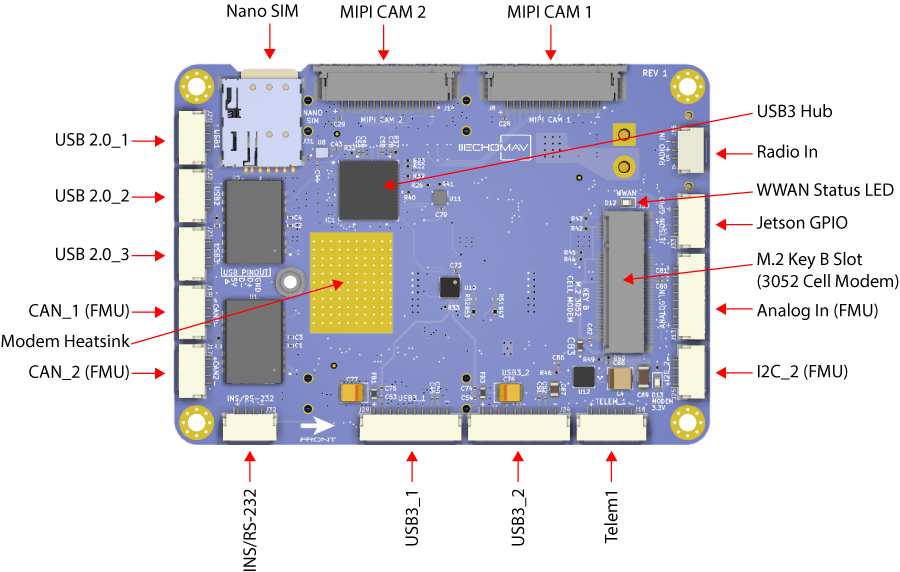
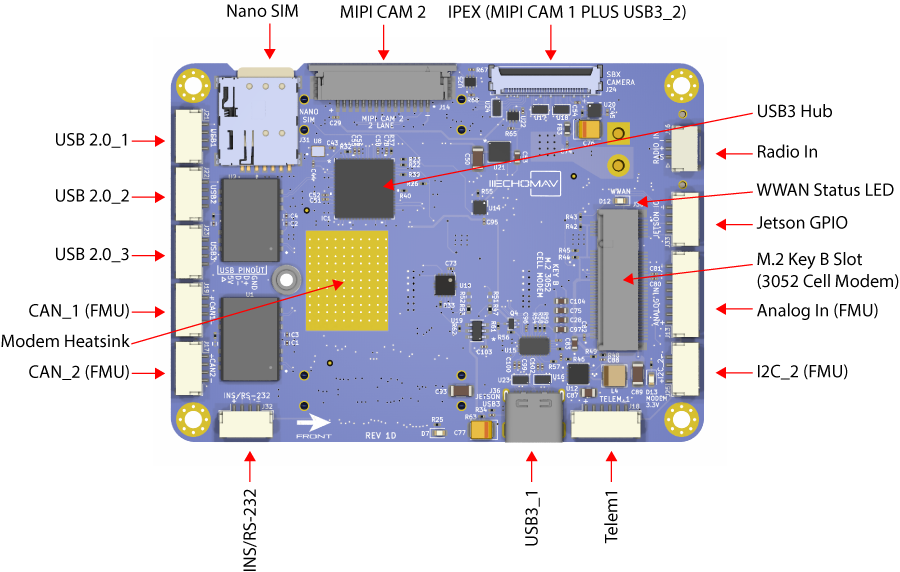
carrier board Rev 1D updates

Changed region(s): [[0.1867, 0.0892, 0.8089, 0.951], [0.4978, 0.0, 0.7778, 0.0297], [0.4356, 0.8916, 0.4667, 0.951]]

diff --git a/docs/echopilot_carrier_pinout.md b/docs/echopilot_carrier_pinout.md
@@ -376,9 +376,6 @@ Pin Number   | Direction     | Voltage       | Pin Description
 
 ![Bottom Side Components](assets/bottom-side-labels-carrier-board.png)
 
-!!! note
-    The MIPI CAM1 connector shown in the image abovee does NOT match the Rev1B board, which features a smaller 22 pin 0.5mm FFC connector. The documentation and pinout in this document is correct.
-
 #### Nano SIM Card (J31)
 A Nano SIM card holder. Used only if a M.2 3052 Key B Cellular modem is attached to J30.
 
@@ -407,39 +404,45 @@ Pin Number   | Direction     | Voltage       | Pin Description
 15        | Pwr OUT           | +3.3V          | +3.3V
 
 
-#### MIPI Cam 1 (J8)
-This connector provides a 4 Lane CSI/MIPI Camera connection, via a 22 pin 0.5mm spacing FFC connector. 
+#### IPEX Connector 1 (J24)
+This connector provides a 4 Lane CSI/MIPI Camera connection, as well as USB3 and I2C. Specifically designed to be used with EchoMAV cameras, but can be adapter for other use cases where a fully shielded/flexible microcoax assembly is required.
 
-!!! note
-    On Rev1B boards, this pinout is reversed from the FFC cables/cameras commonly used with RPi and Nvidia-compatible cameras. If using such a camera, we recommend using an FFC cable with a top/bottom pin arrangement such as Amphenol FF3025-CO102-022 to correct the pinout. This will be corrected in future revisions.
-
-Connector: J8, Part Number: 2-1734592-2
-Mating Connector: FFC Cable, 22 pos, 0.5mm pin spacing   
+Connector: J24, Part Number: 20682-030E-02
+Mating Connector: EchoMAV IPEX Cable Assembly
 
 Pin Number   | Direction     | Voltage       | Pin Description
 ------------ | ------------- | ------------  | ------------
-1        | Pwr            | GND          | GND
-2        | IO            | Diff Signal        | CAM0_D0-
-3        | IO            | Diff Signal          | CAM0_D0+
+1        | Pwr            | +5V          | PWR OUT
+2        | Pwr            | +5V        | PWR OUT
+3        | Pwr           | GND          | GND
 4        | Pwr            | GND         | GND
-5        | IO            | Diff Signal          | CAM0_D1-
-6        | IO            | Diff Signal         | CAM0_D1+
-7        | Pwr            | GND          | GND
-8        | O            | Diff Signal         | CAM0_CLK-
-9        | O            | Diff Signal          | CAM0_CLK+
-10       | Pwr            | GND          | GND
-11       | IO            | Diff Signal          | CAM0_D2-
-12       | IO            | Diff Signal         | CAM0_D2+
-13       | Pwr            | GND          | GND
-14       | O            | Diff Signal         | CAM0_D3-
-15       | O            | Diff Signal          | CAM0_D3+
-16       | Pwr            | GND         | GND
-17       | IO            | +3.3V          | CAM0_GPIO
-18       | O            | +3.3V         | CAM0_MCLK
-19       | Pwr            | GND         | GND
-20       | O            | +3.3V          | CAM0_SCL0
-21       | IO            | +3.3V         | CAM0_SDAO
-22       | Pwr OUT            | +3.3V          | +3.3V
+5        | NA            | NA          | NC
+6        | IO            | +5V          | USB VBus
+7        | IO            | Diff Signal         | USB D+
+8        | IO            | Diff Signal          | USB D-
+9        | IO            | Diff Signal         | USB Rx+
+10        | IO            | Diff Signal          | USB Rx-
+11       | IO            | Diff Signal         | USB Tx+
+12       | IO            | Diff Signal          | USB Tx-
+13       | IO            | +1.8v         | I2C SCL
+14       | IO            | +1.8V          | I2C SDL
+15       | IO           | Diff Signal         | CAM0_D0-
+16       | IO            | Diff Signal          | CAM0_D0+
+17       | IO            | Diff Signal          | CAM0_D1-
+18       | IO            | Diff Signal            | CAM0_D1+
+19       | IO           | Diff Signal          | CAM0_CLK-
+20       | Pwr            | Diff Signal           | CAM0_CLK+
+21       | Pwr            | +3.3V         | CAM0_GPIO
+22       | Pwr            | +3.3V         | CAM0_MCLK
+23       | Pwr            | Diff Signal           | CAM0_D2-
+24       | Pwr            | Diff Signal           | CAM0_D2+
+25       | Pwr            | Diff Signal           | CAM0_D3-
+26       | Pwr            | Diff Signal           | CAM0_D3+
+27       | IO            | +1.8V          | CAM0_SCL0
+28       | IO            | +1.8V         | CAM0_SDAO
+30       | NA       | NA         | NC
+30       | NA            | MA         | NC
+
 
 #### Radio In (J16)
 This connector provides a optional radio input in to the autopilot. A wide range of radio protocols are supported. Please see [here](https://ardupilot.org/copter/docs/common-rc-systems.html) for example.
@@ -512,43 +515,12 @@ Pin Number   | Direction     | Voltage       | Pin Description
 5        | I            | +3.3V          | Telem1 RTS
 6        | Pwr            | GND         | GND
 
-#### USB3_2 (J24)
+#### USB3_2 (J36)
 This connector provides a USB3 SuperSpeed connection to the Jetson, via a TUSB8042 hub. Note that 1uF capacitors are placed near the connector on the Tx+ and TX- lines.
 
-Connector: J24, Part Number: SM10B-GHS-TB(LF)(SN)  
-Mating Connector: GHR-10V-S     
+Connector: J36, Part Number: Molex 105450-0101
+Mating Connector: USB-C Cables/Devices
 
-Pin Number   | Direction     | Voltage       | Pin Description
------------- | ------------- | ------------  | ------------
-1        | Pwr OUT           | +5V          | VBus 
-2        | IO            | Diff Signal        | USB D-
-3        | IO            | Diff Signal          | USB D+
-4        | Pwr            | GND        | GND
-5        | IO            | Diff Signal         | USBSS Rx-
-6        | IO            | Diff Signal         | USBSS Rx+
-7        | Pwr            | GND         | GND
-8        | IO            | Diff Signal         | USBSS Tx-
-9        | IO            | Diff Signal         | USBSS Tx+
-10        | Pwr            | GND         | GND
-
-#### USB3_1 (J29)
-This connector provides a USB3 SuperSpeed connection to the Jetson, via a TUSB8042 hub. Note that 1uF capacitors are placed near the connector on the Tx+ and TX- lines.
-
-Connector: J29, Part Number: SM10B-GHS-TB(LF)(SN)  
-Mating Connector: GHR-10V-S     
-
-Pin Number   | Direction     | Voltage       | Pin Description
------------- | ------------- | ------------  | ------------
-1        | Pwr OUT           | +5V          | VBus 
-2        | IO            | Diff Signal        | USB D-
-3        | IO            | Diff Signal          | USB D+
-4        | Pwr            | GND        | GND
-5        | IO            | Diff Signal         | USBSS Rx-
-6        | IO            | Diff Signal         | USBSS Rx+
-7        | Pwr            | GND         | GND
-8        | IO            | Diff Signal         | USBSS Tx-
-9        | IO            | Diff Signal         | USBSS Tx+
-10        | Pwr            | GND         | GND
 
 #### INS/RS-232 FMU UART (J32)
 This connector provides an RS-232 level shifted UART from the FMU for connection to an external device, such as an Inertial Navigation System (INS).
